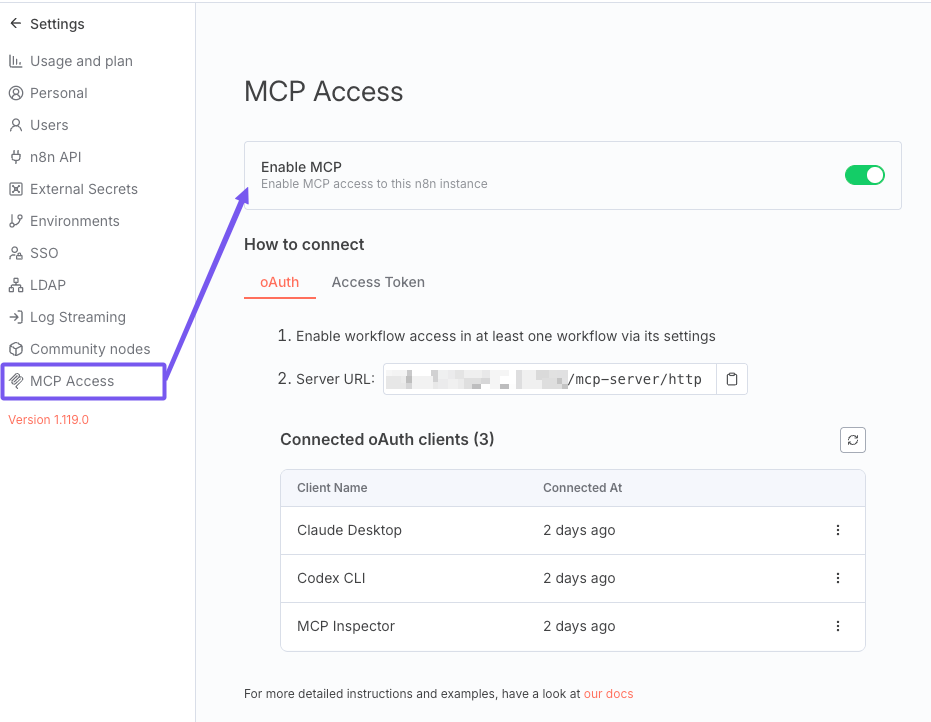
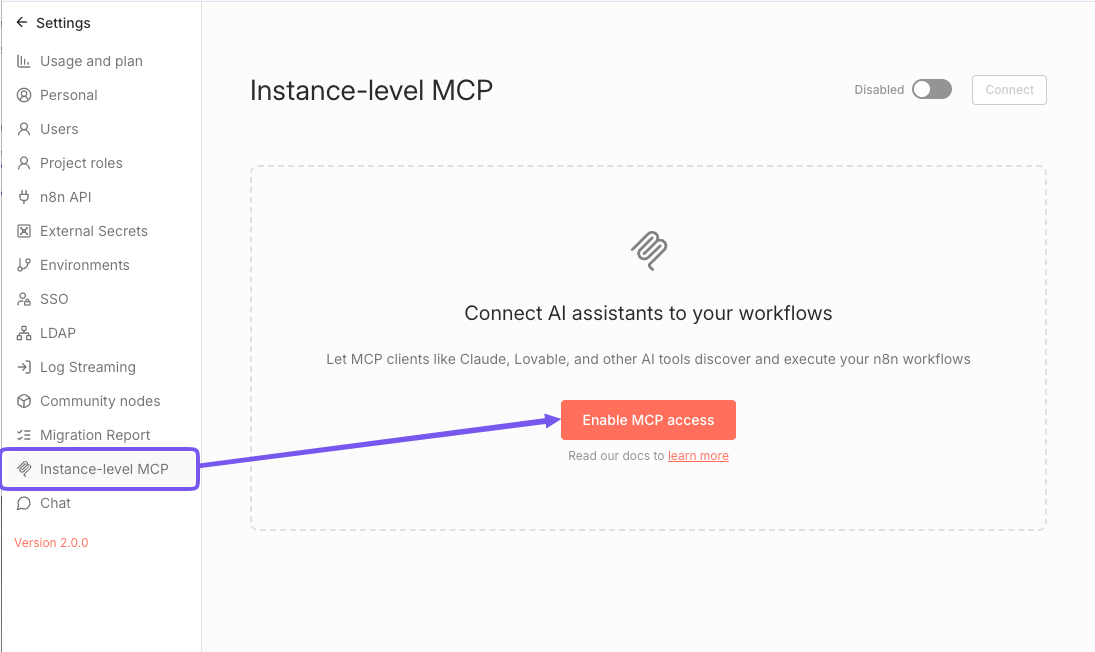
Update `Instance-level MCP` page after UI re-design

diff --git a/docs/advanced-ai/accessing-n8n-mcp-server.md b/docs/advanced-ai/accessing-n8n-mcp-server.md
@@ -30,17 +30,21 @@ In comparison, you configure an MCP Server Trigger node inside a single workflow
 
 ### For Cloud and self-hosted instances
 
-1. Navigate to **Settings > MCP Access**
+1. Navigate to **Settings > Instance-level MCP**
 2. Toggle **Enable MCP access** (requires instance owner or admin permissions).
 
    ![enable-mcp-access.png](/_images/advanced-ai/enable-mcp-access.png)
 
 Once enabled, you'll see:
 
-- Connection instructions
-- List of workflows exposed to MCP clients
+1. List of workflows exposed to MCP clients
+2. List of connected OAuth clients
+3. Main MCP toggle to enable/disable instance-level access
+4. *Connect* button that shows detailed instructions for connecting MCP clients
 
-**To disable:** Toggle the switch off.
+   ![mcp_page_content.png](/_images/advanced-ai/mcp_page_content.png)
+
+**To disable:** Toggle the main MCP toggle off.
 
 ### For self-hosted: Complete disablement
 
@@ -52,10 +56,12 @@ This action removes MCP endpoints and hides all related UI elements.
 
 ## Setting up MCP authentication
 
-The **How to connect** section on the **MCP Access** page provides two authentication methods for MCP clients:
+The **Connect** popup menu provides two authentication options for MCP clients:
 
 - **OAuth2**
 - **Access Token**
+
+   ![mcp_connect_menu.png](/_images/advanced-ai/mcp_connect_menu.png)
 
 ### Using OAuth2
 
@@ -66,14 +72,16 @@ After connecting, the client will redirect you to n8n to authorize access.
 
 To revoke access for connected MCP clients:
 
-1. Navigate to **Settings > MCP Access**.
-2. Switch to the **OAuth** tab in the **How to connect** section.
-   You should see a table of connected clients in the **Connected OAuth clients** section.
+1. Navigate to **Settings > Instance-level MCP**.
+2. Switch to the **Connected clients** tab.
+   You should see a table of connected OAuth clients.
 3. Use the action menu in each client's row to revoke access for specific clients.
+
+   ![mcp_revoke_client_access.png](/_images/advanced-ai/mcp_revoke_client_access.png)
 
 ### Using Access Token
 
-Use your instance server URL and your personal MCP Access Token from the **Access Token** tab on the settings page.
+Use your instance server URL and your personal MCP Access Token from the **Access Token** tab on the *Connect* menu.
 
 When you first visit the **MCP Access page**, n8n automatically generates a personal MCP Access Token tied to your user account.
 
@@ -85,14 +93,17 @@ Copy your token right away. On future visits, you'll only see a redacted value a
 
 If you lose your token or need to rotate it:
 
-1. Navigate to **Settings > MCP Access**.
-2. Make sure you are on the **Access Token** tab in the **How to connect** section.
-2. Generate a new token.
+1. Navigate to **Settings > Instance-level MCP**.
+2. Open the *Connect* menu by clicking the **Connect** button in the top-right corner.
+3. Switch to the **Access Token** tab.
+4. Generate a new token using the button next to the redacted token value.
     
     n8n revokes the previous token when you generate a new one.
     
 3. Update all connected MCP clients with the new value.
 
+
+   ![mcp_rotate_token.png](/_images/advanced-ai/mcp_rotate_token.png)
 
 ## Exposing workflows to MCP clients
 
@@ -100,14 +111,16 @@ If you lose your token or need to rotate it:
 
 In order for a workflow to be available to MCP clients, it must meet the following criteria:
 
-1. Be active
+1. Be published
 2. Contain one of the following trigger nodes:
     - Webhook
     - Schedule
     - Chat
     - Form
 
-By default, no workflows are visible to MCP clients. You must explicitly enable access.
+By default, no workflows are visible to MCP clients. You must explicitly enable access for each eligible workflow you want to expose.
+
+When evaluating workflow eligibility, n8n will take into account only the published version of the workflow. Workflows that have a supported trigger added to a draft version will not be considered eligible until the version is published.
 
 /// info
 Once you unpublish a workflow, n8n removes its MCP access. You will have to re-enable access when you publish the workflow again.
@@ -129,20 +142,27 @@ Once you unpublish a workflow, n8n removes its MCP access. You will have to re-e
 
 ### Managing access
 
-The **MCP Access settings page** shows all workflows available to MCP clients. From this list you can:
+The **Instance-level MCP** settings page shows all workflows available to MCP clients. From this list you can:
 
-- Open a workflow directly
+- Open a workflow, its home project or parent folder directly
 - Revoke access using the action menu (or use **Disable MCP access** from the workflow card menu)
+- Update workflow description using the action menu (or use the menu in the workflow editor)
 
 ### Workflow descriptions
 
 To help MCP clients identify workflows, you can add free-text descriptions as follows:
 
-1. Open the workflow.
-2. Click the pencil icon next to the workflow name.
-3. Enter your description in the **Description** field.
+1. Option 1: From the **Instance-level MCP** page
+	1. Navigate to **Settings > Instance-level MCP**.
+	2. Make sure you are on the **Workflows** tab.
+    3. Use the action menu in the desired workflow's row and select the **Edit description** action.
+	
+2. Option 2: From the workflow editor
+	1. Open the workflow.
+	2. Click the main workflow menu (`...`) in the top-right corner.
+	3. Select **Edit description**.
 
-	![mcp-access-workflow-descriptions.png](/_images/advanced-ai/mcp-access-workflow-descriptions.png)
+	![mcp_workflow_description.png](/_images/advanced-ai/mcp_workflow_description.png)
 
 ## Executing workflows through MCP clients
 
@@ -188,7 +208,7 @@ n8n enforces a 5-minute timeout for workflow executions triggered by MCP clients
 2. Click on **Add custom connector**.
 3. Enter the following details:
    	- **Name:** n8n MCP
-    - **Remote MCP Server URL**: Your n8n base URL (shown on the **MCP Access** page)
+    - **Remote MCP Server URL**: Your n8n base URL (shown on the **Instance-level MCP** page)
 4. Save the connector.
 5. When prompted, authorize Claude Desktop to access your n8n instance.
 
@@ -220,7 +240,7 @@ Add the following entry to your `claude_desktop_config.json` file:
 
 Here, replace:
 
-- `<your-n8n-domain>`: Your n8n base URL (shown on the **MCP Access** page)
+- `<your-n8n-domain>`: Your n8n base URL (shown on the **Instance-level MCP** page)
 - `<YOUR_N8N_MCP_TOKEN>`: Your generated token
 
 ### Connecting Claude Code to n8n MCP server
@@ -250,7 +270,7 @@ Alternatively, add the following entry to your `claude.json` file:
 
 Here, replace:
 
-- `<your-n8n-domain>`: Your n8n base URL (shown on the **MCP Access** page)
+- `<your-n8n-domain>`: Your n8n base URL (shown on the **Instance-level MCP** page)
 - `<YOUR_N8N_MCP_TOKEN>`: Your generated token
 
 ### Connecting Codex CLI to n8n MCP server
@@ -272,7 +292,7 @@ args = [
 
 Here, replace:
 
-- `<your-n8n-domain>`: Your n8n base URL (shown on the **MCP Access** page)
+- `<your-n8n-domain>`: Your n8n base URL (shown on the **Instance-level MCP** page)
 - `<YOUR_N8N_MCP_TOKEN>`: Your generated token
 
 ### Connecting Google ADK agent to n8n MCP server
